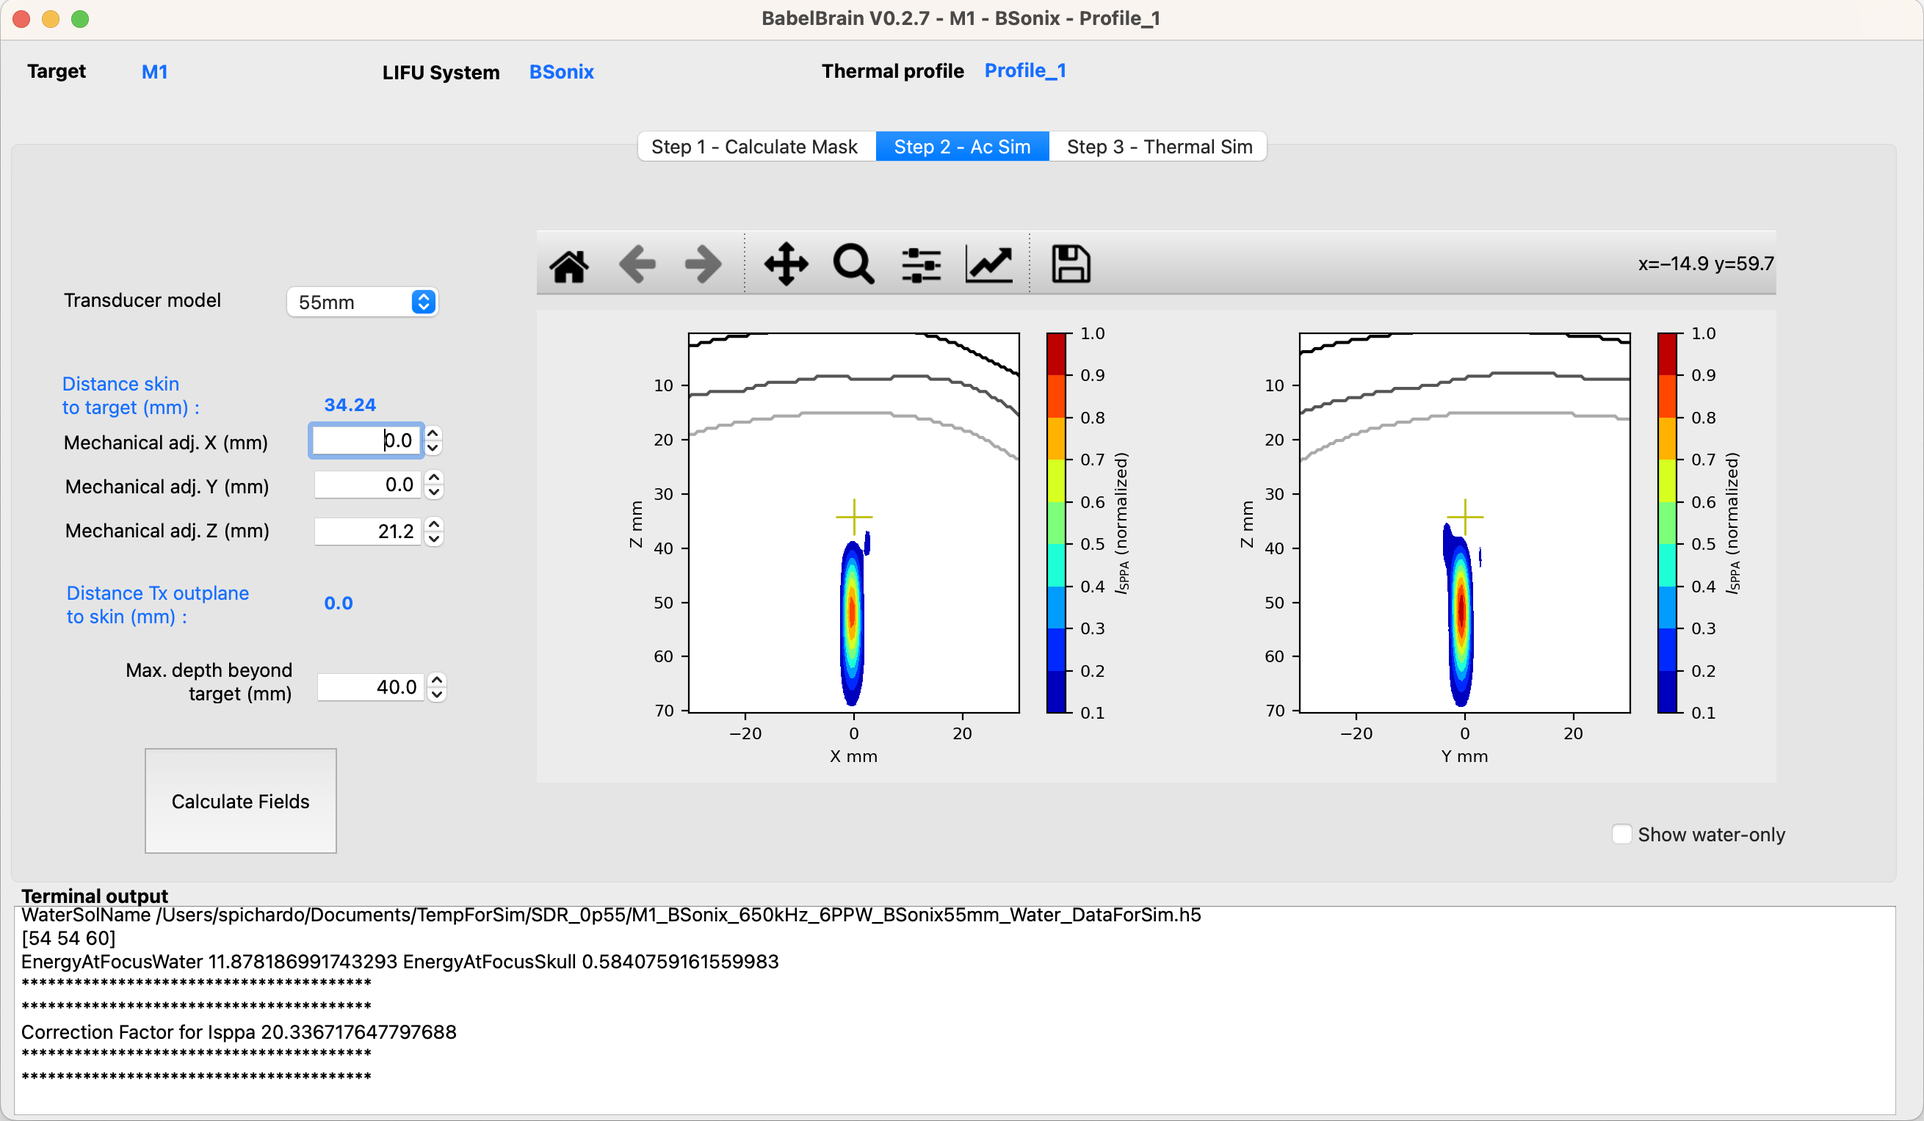
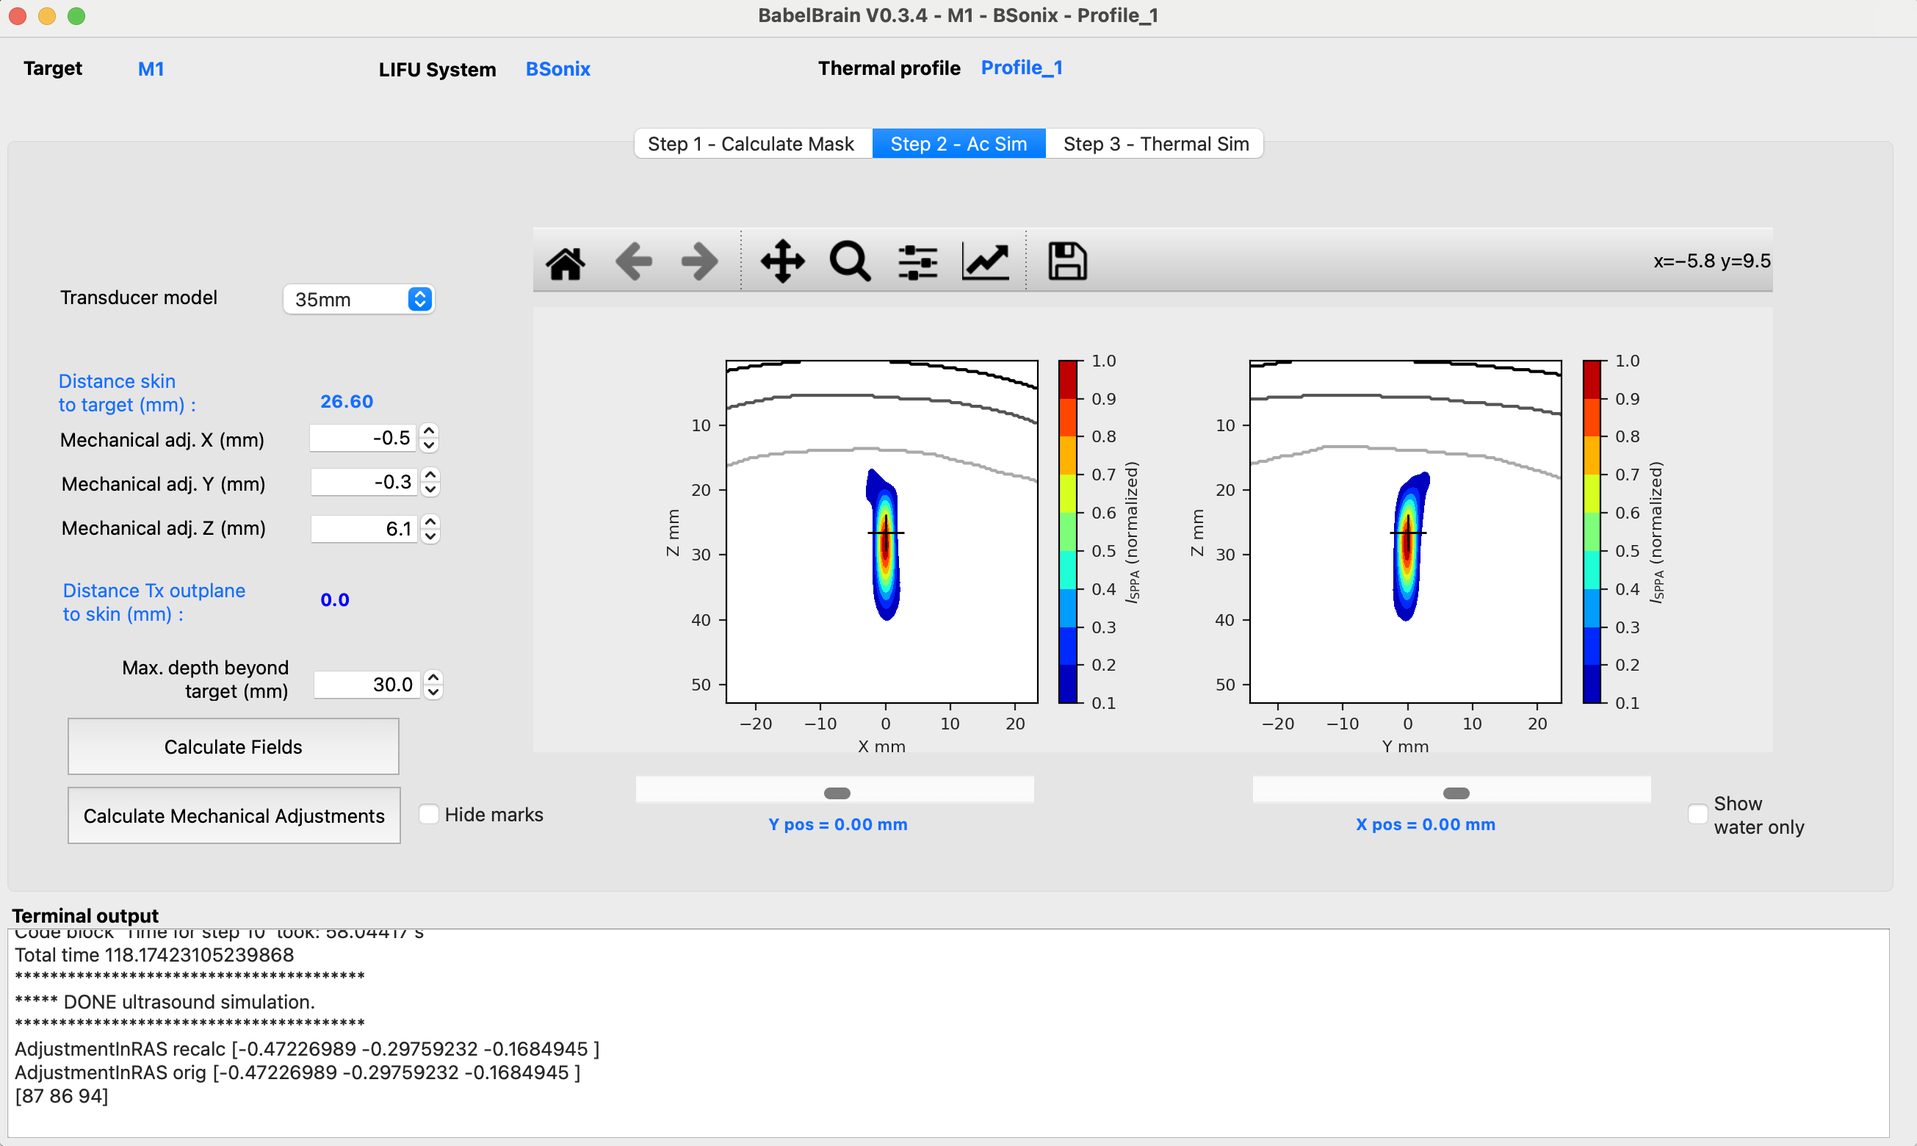
Deployed fb4e744 with MkDocs version: 1.4.2

diff --git a/pipeline/pipeline.html b/pipeline/pipeline.html
@@ -143,11 +143,18 @@
 <p><img src="Basics-1.png"></p>
 <p>Currently, five types of transducers are supported:</p>
 <ul>
-<li><strong>Single</strong>. This is a simple focusing single-element transducer. The user can specify diameter, focal length and a frequency between 100 kHz and 700 kHz.</li>
-<li><strong>H317</strong>. This is a 128-element phased array with a focal length of 135 mm and F#=0.9. The device is capable to operate at 250 kHz and 700 kHz.</li>
+<li><strong>Single</strong>. This is a simple focusing single-element transducer. The user can specify diameter, focal length and a frequency between 100 kHz and 1 MHz.</li>
+<li><strong>H317</strong>. This is a 128-element phased array with a focal length of 135 mm and F#=0.9. The device is capable to operate at 250, 700 and 825 kHz.</li>
 <li><strong>CTX_500</strong>. This is a device commercialized by the company NeuroFUS that has 4 ring elements, with a focal length of 63.2 mm and F# = 0.98, and operates at 500 kHz.</li>
 <li><strong>H246</strong>. This is a flat ring-type device that has 2 annular elements, with a diameter of 33.6 mm and operates at 500 kHz. It offers some degree of focusing by using two transducer elements.</li>
 <li><strong>BSonix</strong>. These are devices commercialized by the company Brainsonix at fixed focal lengths of 35, 55, 65 and 80 mm as reported in <a href="https://doi.org/10.1109/TUFFC.2020.3006781">Schafer <em>et al.</em></a>.</li>
+<li>
+<ul>
+<li><strong>I12378</strong>. This is a 128-element device operating at 650 kHz with a focal length of 72 mm and F#=0.7.</li>
+</ul>
+</li>
+<li><strong>ATAC</strong>. This is a 128-element device operating at 1 MHz with a focal length 53.2 mm and F#=0.9.</li>
+<li><strong>REMOPD</strong>.This is a 256-element flat 2D array operating at 300 kHz with a diameter of 58 mm.</li>
 </ul>
 <p>The specific capabilities of each transducer are considered during the simulations. </p>
 <h1 id="1-preliminary-steps">1 - Preliminary steps</h1>
@@ -310,10 +317,24 @@ AllDC_PRF_Duration: #All combinations of timing that will be considered
          PRF: 5.0
          Duration: 80.0
          DurationOff: 50.0</code></p>
-<p>When running the thermal simulation step, all the combinations specified in the thermal profile will be calculated. </p>
+<p>When running the thermal simulation step, all the combinations specified in the thermal profile will be calculated.</p>
 </li>
 <li>
 <p>Select the type of transducer to be used in simulations.</p>
+</li>
+<li>
+<p>Optional. Select a multi-point profile file for simulations. BabelBrain offers the possibility to execute electronic steering over a list of points if a concave array is selected. If any of the three concave arrays is selected (H317, I12378 and ATAC), the user can select a profile definition specific to multi-point steering. This is a simple YAML file where the timings of transcranial ultrasound are specified. For example:</p>
+<p><code>MultiPoint:
+ -   X: 2.0
+     Y: 0.0
+     Z: 0.0
+ -   X: -1.0
+     Y: 1.73205081
+     Z: 0.0
+ -   X: -1.0
+     Y: -1.73205081
+     Z: 0.0</code></p>
+<p>In this example, we create a 3-point steering list that makes a 3-point star with a radius from the origin of 2 mm.</p>
 </li>
 <li>
 <p>Once all inputs are set, then click on "CONTINUE"</p>
@@ -337,34 +358,41 @@ AllDC_PRF_Duration: #All combinations of timing that will be considered
 <h2 id="3c-transcranial-ultrasound-simulation">3.c - Transcranial ultrasound simulation</h2>
 <p>The second tab in the GUI of BabelBrain shows the ultrasound simulation step.  The diagram below shows a flowchart of this step.</p>
 <p><img src="nsclc2-V2.svg" height=600px></p>
-<p>The choices of this tab will depend on the selected transducer. Simulation results in this step are shown in normalized conditions. The final step (see below) later will show the results denormalized in function of the selected intensity at the target. Common to all transducers, the distance of the maximal depth beyond the target location is set to a user-configurable distance of 40 mm.</p>
+<p>The choices of this tab will depend on the selected transducer. Simulation results in this step are shown in normalized conditions. The final step (see below) later will show the results denormalized in function of the selected intensity at the target. </p>
+<p>Common to all transducers, the distance of the maximal depth beyond the target location is set to a user-configurable distance of 40 mm.</p>
+<p>Also, all transducers show an action to perform automatic mechanical corrections in the direction perpendicular to the ultrasound propagation. See below the details in the explanations for the CTX 500 device regarding mechanical corrections.</p>
 <h3 id="3ci-ctx_500">3.c.i - CTX_500</h3>
+<p><img src="Simulation-7.png" height=350px></p>
 <p>For the CTX_500 transducer, the initial assumption is that this type of transducer will be placed in direct contact with the skin and that the focusing distance will be adjusted according to the desired target. </p>
-<p><img src="Simulation-5.png" height=350px></p>
 <p>The initial "TPO Distance" (an adjustable parameter in the CTX_500 device) is calculated based on the distance skin to the target. </p>
 <p>It is recommended to simulate with the default values to evaluate the degree of focus shift caused by the skull. Simulation should take a couple of minutes in a M1 Max system.</p>
-<p><img src="Simulation-6.png" height=450px> </p>
-<p>The results window will show two orthogonal views of normalized acoustic intensity. The intensity in the skin and skull regions is masked out (it can be visualized later in those regions in step 3). In this step, the main goal is to ensure a correct spatial focusing on the target. In the example, a shift of 5 mm of the focal spot towards the transducer can be observed. This shift can be corrected by adding 5 mm in the TPO Distance input (in the example, we adjust to 52.5 mm). Also, there is a small lateral shift in the negative "Y" direction. This can be corrected with the "Mechanical" adjustment controls (in this example we adjust +1mm in the Y direction). Please note that in the simulation domain, X, Y and Z are not mapped to subject coordinates. However, at the end of the simulations, there will be a report in which direction in the T1W space this adjustment translates. </p>
-<p>After doing the adjustments, the simulation can be repeated.</p>
-<p><img src="Simulation-7.png" height=450px> </p>
+<p>The results window will show two orthogonal views of normalized acoustic intensity. The intensity in the skin and skull regions is masked out (it can be visualized later in those regions in step 3). In this step, the main goal is to ensure a correct spatial focusing on the target. In the example, a shift of 5 mm of the focal spot towards the transducer can be observed. This shift can be corrected by adding 5 mm in the TPO Distance input (in the example, we adjust to 52.5 mm). </p>
+<p>Also, there is a small lateral shift in the negative "Y" direction. This can be corrected with the "Mechanical" adjustment controls (in this example we adjust +1mm in the Y direction). </p>
+<p>After running a first pass of simulations in Step 2, a button action is available to calculate the distance from the target to the center of mass of the focal spot at -6dB and suggest applying the required mechanical corrections in X and Y directions. This action should help to minimize the number of iterations in simulations looking to ensure the focal spot is aligned in the X and Y directions to the intended target.</p>
+<p>Please note that in the simulation domain, X, Y and Z are not mapped to subject coordinates. However, at the end of the simulations, there will be a report in which direction in the T1W space this adjustment translates. </p>
+<p>After making the adjustments, the simulation can be repeated.</p>
 <h3 id="3cii-h246">3.c.ii - H246</h3>
 <p>The H246 transducer has a similar operation as the CTX_500. The steps presented above apply similarly. As the H246 transducer has a much longer focal length, consider extending the maximal depth of simulations.</p>
 <p><img src="Simulation-9.png" height=450px></p>
-<h3 id="3ciii-h317">3.c.iii - H317</h3>
-<p>The H317 is a large transducer that uses a coupling cone that is in contact with the skin. The user interface shows small differences compared to CTX_500 and H246. There is a parameter for the <code>Distance cone to Focus</code> that depends on the acoustic cone used for coupling. Because this transducer has 128 elements, the user interface shows also the option to perform electronic refocusing.</p>
+<h3 id="3ciii-h317-i12378-and-atac">3.c.iii - H317, I12378 and ATAC</h3>
+<p>These transducers assume that a coupling cone is in contact with the skin. The user interface shows small differences compared to CTX_500 and H246. There is a parameter for the <code>Distance cone to Focus</code> that depends on the acoustic cone used for coupling. Because these transducers are phased arrays, the user interface shows also the option to perform electronic refocusing and multifocus.</p>
 <p><img src="Simulation-10.png" height=450px></p>
 <h3 id="3civ-single">3.c.iv - Single</h3>
-<p>The "Single" transducer is a generic device with a configurable diameter and focal length. Because this is a more general-purpose device, it is not assumed that the transducer is in direct contact with the skin. The transducer is always initially centered at the target, which can make that there could be some space between the transducer out plane and the skin. The user can adjust the mechanical distance on the Z axis until the point the out plane of the transducer reaches the skin.</p>
+<p>The "Single" transducer is a generic device with a configurable diameter and focal length. Because this is a more general-purpose device, it is not assumed that the transducer is in direct contact with the skin. The transducer is always initially centered at the target, which means that there could be some space between the transducer out plane and the skin. The user can adjust the mechanical distance on the Z axis until the point of the out plane of the transducer reaches the skin.</p>
 <p><img src="Simulation-11.png" height=450px></p>
-<h3 id="3civ-bsonix">3.c.iv - BSonix</h3>
-<p>These are commercial transducers with fixed focal lengths as reported in <a href="https://doi.org/10.1109/TUFFC.2020.3006781">Schafer <em>et al.</em></a>. The user can select focal length of 55, 65 and 80 mm. Similar to the CTX_500, it is assumed the device is in direct contact with the skin, with the option to move the transducer away from the skin to simulate placing a coupling pad. </p>
+<h3 id="3cv-bsonix">3.c.v - BSonix</h3>
+<p>These are commercial transducers with fixed focal lengths as reported in <a href="https://doi.org/10.1109/TUFFC.2020.3006781">Schafer <em>et al.</em></a>. The user can select focal length of 35, 55, 65 and 80 mm. Similar to the CTX_500, it is assumed the device is in direct contact with the skin, with the option to move the transducer away from the skin to simulate placing a coupling pad. </p>
 <p><img src="Simulation-13.png" height=450px></p>
+<h3 id="3cvi-remopd">3.c.vi - REMOPD</h3>
+<p>This transducer is a flat device that shows features that combine functionalities similar to the H246 and phased arrays.</p>
+<p><img src="Simulation-14.png" height=450px></p>
 <h2 id="3d-thermal-simulation">3.d - Thermal simulation</h2>
 <p>The third tab in the GUI of BabelBrain shows the thermal simulation step.  The diagram below shows a flowchart of this step.</p>
 <p><img src="nsclc3-V2.svg" height=250px></p>
 <p>The thermal simulation solves the Bio-heat thermal equation (BHTE) for all the combinations of duty cycle, timing and ultrasound exposure indicated in the thermal profile definition file. </p>
 <p><img src="Simulation-12.png" height=450px></p>
 <p>The selection of spatial-peak pulse-average intensity (<span class="arithmatex"><span class="MathJax_Preview">I_{\text{SPPA}}</span><script type="math/tex">I_{\text{SPPA}}</script></span>) indicates the desired intensity at the target. The spatial-peak time-average intensity (<span class="arithmatex"><span class="MathJax_Preview">I_{\text{SPTA}}</span><script type="math/tex">I_{\text{SPTA}}</script></span>) is calculated based on the selected timing conditions.  Based on the selections of timing and desired <span class="arithmatex"><span class="MathJax_Preview">I_{\text{SPPA}}</span><script type="math/tex">I_{\text{SPPA}}</script></span> in tissue, the <span class="arithmatex"><span class="MathJax_Preview">I_{\text{SPPA}}</span><script type="math/tex">I_{\text{SPPA}}</script></span> in water conditions is calculated after taking into account all the losses. Thermal safety parameters (maximal temperature and thermal doses) in the skin, skull bone and brain tissue are calculated at the locations showing the highest temperature elevation in the whole 3D volume. The <code>MTB</code>, <code>MTS</code> and <code>MTC</code> push buttons in the lower region of the interface select the slice corresponding to the the maximal temperature in brain, skin and skull, respectively.</p>
+<p>The <code>Update Profile and Calculate</code> action can be used to load an updated version of the thermal profile file. This will force the recalculation of thermal results.</p>
 <p>The <code>Export summary (CSV)</code> action exports the input data paths and user selections used for the simulations. It also includes a table of <span class="arithmatex"><span class="MathJax_Preview">I_{\text{SPPA}}</span><script type="math/tex">I_{\text{SPPA}}</script></span> in water conditions and safety metrics in function of the desired <span class="arithmatex"><span class="MathJax_Preview">I_{\text{SPPA}}</span><script type="math/tex">I_{\text{SPPA}}</script></span> in tissue. Below there is an example of the exported data.</p>
 <table>
 <thead>
@@ -467,7 +495,8 @@ AllDC_PRF_Duration: #All combinations of timing that will be considered
 <td>...</td>
 </tr>
 </tbody>
-</table></div>
+</table>
+<p>The <code>Export Current Thermal map (.nii.gz)</code> action exports the current thermal simulation on display in Nifti format for inspection in neuronavigation and visualization software</p></div>
             </div>
         </div>
 

diff --git a/installation.html b/installation.html
@@ -97,10 +97,6 @@
               <ul class="nav flex-column">
               </ul>
             </li>
-            <li class="nav-item" data-level="2"><a href="#extra-software-required-to-run-babelbrain" class="nav-link">Extra software required to run BabelBrain</a>
-              <ul class="nav flex-column">
-              </ul>
-            </li>
               </ul>
             </li>
             
@@ -141,12 +137,10 @@
 <h2 id="os">OS</h2>
 <p>Currently, macOS (ARM64, X64), Windows/Linux (X64) are supported. Windows users can run BabelBrain natively or via <a href="https://learn.microsoft.com/en-us/windows/wsl/install">WSL2</a> with NVidia GPUs (see this <a href="https://docs.nvidia.com/cuda/wsl-user-guide/index.html">guide</a>). </p>
 <h3 id="gpu">GPU</h3>
-<p>BabelBrain supports GPUs enabled via CUDA, OpenCL or Metal. High-end GPUs (8 GPU RAM or more) are recommended. ARM64 processors (M1, M2, M3) in Mac systems with 16GB or more RAM are highly recommended. BabelBrain was designed with Mac systems based on M1 and M2 processors as primary targets. </p>
+<p>BabelBrain supports GPUs enabled via CUDA, OpenCL or Metal. High-end GPUs (8 GPU RAM or more) are recommended. ARM64 processors (M1, M2, M3 families) in Mac systems with 16GB or more RAM are highly recommended. BabelBrain was designed with Mac systems based on Mx processors as primary targets. </p>
 <h4 id="note-for-intel-based-mac-systems">Note for Intel-based Mac systems</h4>
 <p>Intel-based systems need to have a dedicated AMD GPU (internal or external via Thunderbolt). Intel-based iMac Pro and MacPro systems have internal GPUs suitable for sub 500 kHz simulations (i.e., Vega 56, Vega 64). An external GPU (i.e., AMD W6800 Pro) offers excellent performance and capability for high-frequency simulations.</p>
-<h2 id="extra-software-required-to-run-babelbrain">Extra software required to run BabelBrain</h2>
-<h3 id="blender">Blender</h3>
-<p><a href="https://www.blender.org">Blender</a> is required for constructive solid geometry operations. Install with default options.</p>
+<p><strong>Important note</strong>. Before v0.3.4, BabelBrain required having installed Blender for some CSG operations. This is not required anymore for v0.3.4 and up.</p>
 <h3 id="simnibs">SimNIBS</h3>
 <p>While BabelBrain does not invoke directly SimNIBS tools, BabelBrain depends on the output generated by SimNIBS 3.x <code>headreco</code> or SimNIBS 4.x <code>charm</code> processing tools. Consult the <a href="https://github.com/simnibs/simnibs/releases">Releases</a> section in SimNIBS for installation options. We recommended using SimNIBS 4.x <code>charm</code> for better results.</p>
 <h3 id="optional-fsl">Optional -FSL</h3>
@@ -155,12 +149,12 @@
 <p>While not strictly required, it is highly recommended to use planning software to establish the target localization and orientation, called <strong>trajectory</strong> in the following documentation, of the ultrasound transducer for the simulation of transcranial ultrasound. The trajectory is just a transformation matrix in the T1W space that represents the translation-rotation of a vector describing the target and direction of ultrasound. BabelBrain can import trajectories defined in proprietary software (<a href="https://www.rogue-research.com/">Rogue Research's</a> Brainsight) or open-source visualization software (<a href="https://www.slicer.org/">3DSlicer</a>). Instructions are detailed in the pipeline section of this documentation. </p>
 <p>Starting with BabelBrain v0.3.2 and Brainsight v2.5.3, BabelBrain can be directly called from Brainsight, importing simulations automatically once the BabelBrain execution is completed.</p>
 <h1 id="standalone-application">Standalone application</h1>
-<p>Ready-to-use applications (no need for Python installation) for macOS and Windows are available in the <a href="https://github.com/ProteusMRIgHIFU/BabelBrain/releases">Releases</a> section. Please note that for macOS there are installers for ARM64 (M1 and newer Apple Silicon processors) and Intel X64, so be sure of picking the correct version matching your hardware. </p>
+<p>Ready-to-use applications (no need for Python installation) for macOS and Windows are available in the <a href="https://github.com/ProteusMRIgHIFU/BabelBrain/releases">Releases</a> section. Please note that for macOS there are installers for ARM64 (M1 and newer Apple Silicon processors) and Intel X64, so be sure to pick the correct version matching your hardware. </p>
 <p>For MacOS, open the DMG file and double-click on the package installer. </p>
 <p><img src="install1.png" height=300px></p>
 <p>The first time you will use you may be prompted to authorize it to run and access directories. You may also need to authorize it in the Security settings of macOS.</p>
 <p>For Windows, download the MSI installer file and run to install BabelBrain. Shortcuts will be created in the Desktop and Start menu. <strong>Note</strong>: CUDA 11.7+ must be installed.</p>
-<p>Keep a copy of the <code>PlanningModels</code> and <code>ThermalProfiles</code> directories. <code>PlanningModels</code> contain STL files useful for the planning of TUS. <code>ThermalProfiles</code> contains examples of timings of the TUS exposure (total duration on, duration off, duty cycle).</p>
+<p>Keep a copy of the <code>PlanningModels</code> and <code>Profiles</code> directories. <code>PlanningModels</code> contain STL files useful for the planning of TUS. <code>Profiles</code> contains examples of timings of the TUS exposure (total duration on, duration off, duty cycle).</p>
 <h1 id="manual-installation">Manual Installation</h1>
 <p>Python 3.9/3.10. Anaconda/miniconda is recommended. - if running in Apple ARM64 processors (M1, M1 Max, etc.), be sure to use a native ARM64 version.</p>
 <p>Clone the <a href="https://github.com/ProteusMRIgHIFU/BabelBrain/">BabelBrain</a> repository. The code can be run in a Python environment; consult examples of conda environment files in the repository. In macOS, you need a healthy XCode installation with command line tools installed. For Linux, an LTS Ubuntu installation such as 20.04 with a  CUDA installation. For Windows, Visual Studio 2019+ with CUDA 11.7+.</p>

diff --git a/index.html b/index.html
@@ -110,8 +110,8 @@
                     <div class="col-md-9" role="main">
 
 <h1 id="babelbrain">BabelBrain</h1>
-<p><strong>v0.3.2</strong><br />
-March 5th, 2024.</p>
+<p><strong>v0.3.4</strong><br />
+April 5th, 2024.</p>
 <p>Samuel Pichardo, Ph.D<br />
 Associate Professor<br />
 Radiology and Clinical Neurosciences, Hotchkiss Brain Institute<br />
@@ -245,5 +245,5 @@ OF THIS SOFTWARE, EVEN IF ADVISED OF THE POSSIBILITY OF SUCH DAMAGE.</p></div>
 
 <!--
 MkDocs version : 1.4.2
-Build Date UTC : 2024-03-15 01:05:25.612114+00:00
+Build Date UTC : 2024-04-06 04:53:27.082626+00:00
 -->
